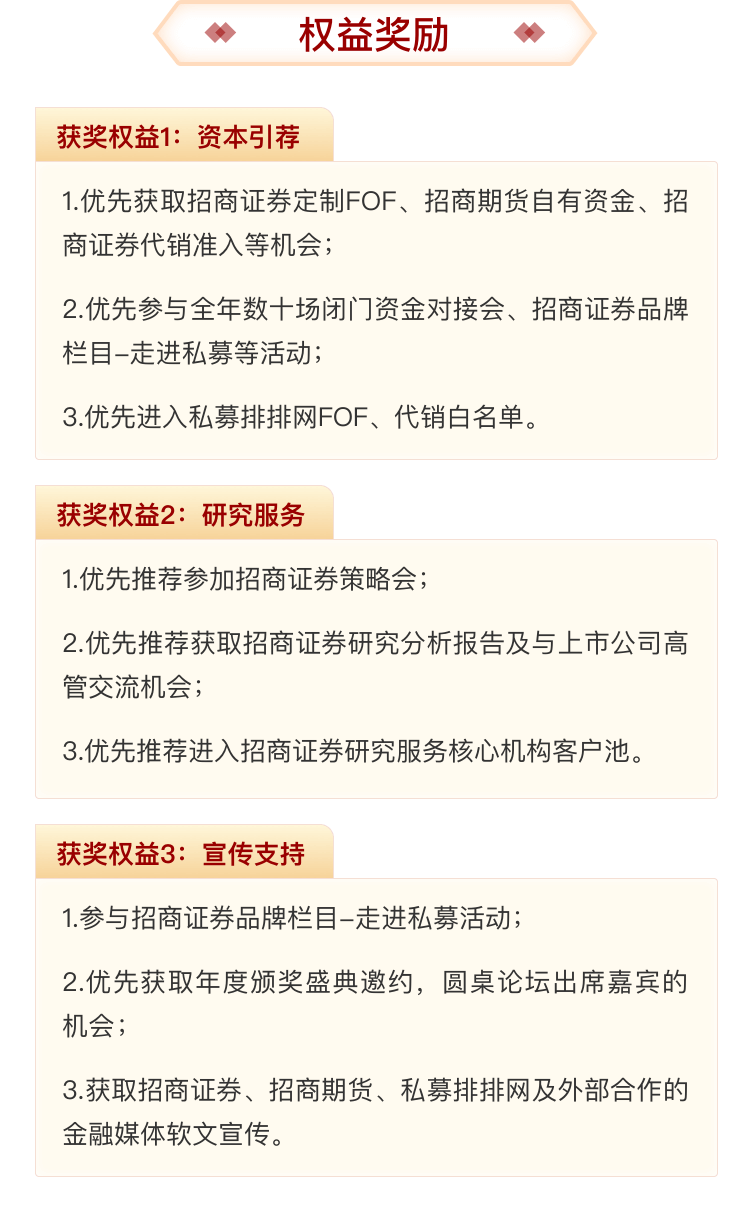
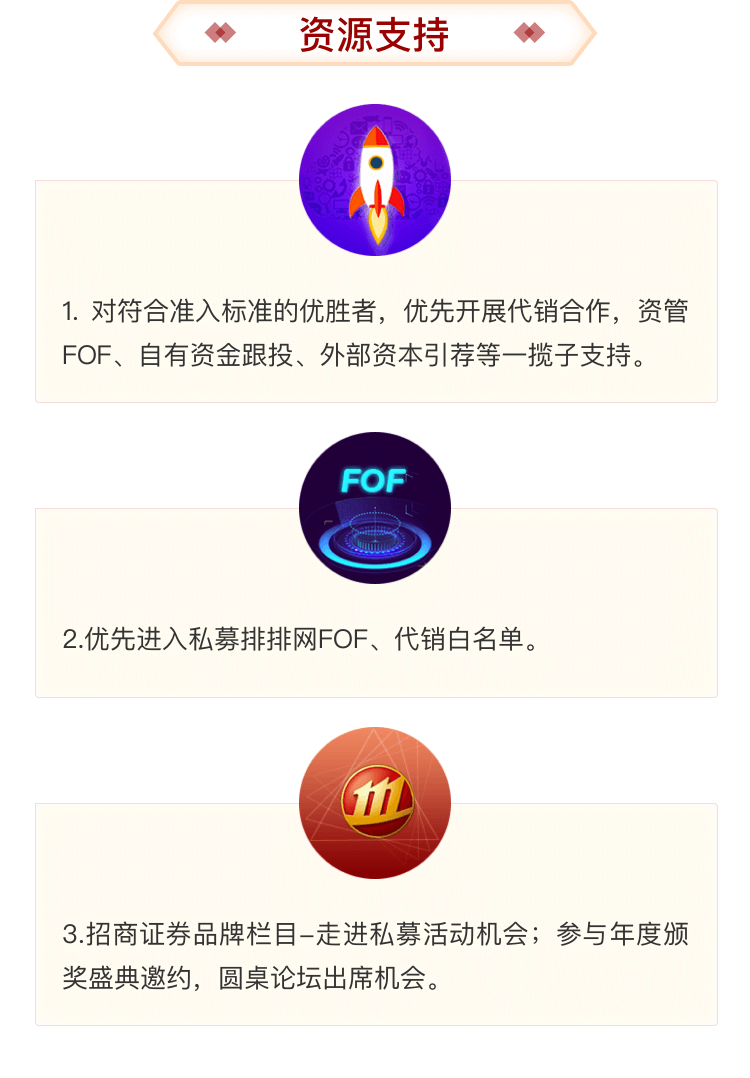
全站优化

diff --git a/pages/mobile/assign.vue b/pages/mobile/assign.vue
@@ -3,7 +3,7 @@
     <Header label="获奖名单" />
     <div style="height: .45rem; background: #f1f1f1" />
     <div class="mobile-assign">
-      <common-flex justify="center" class="header"><CommonTitle title="获奖名单"/></common-flex>
+      <common-flex justify="center" class="common-header"><CommonTitle title="获奖名单"/></common-flex>
       <template v-for="(val, key) in option_definition">
         <common-flex class="fake-input-box" align="center">
           <common-flex class="label" align="flex-start">
@@ -383,7 +383,7 @@ export default {
 .mobile-assign {
   position: relative;
   height: 100%;
-  .header {
+  .common-header {
     margin: -.2rem 0 .6rem 0;
   }
   .empty-box {

diff --git a/pages/mobile.vue b/pages/mobile.vue
@@ -1,6 +1,7 @@
 <template>
   <div class="pages-mobile">
     <nuxt-child></nuxt-child>
+    <div class="disclaimer-text" v-if="$route.query.match_code === 'zszq'">- 请详细阅读大赛相关免责声明 -</div>
     <div class="footer"><Footer :showCall.sync="showCall" /></div>
     <Call :showCall.sync="showCall"/>
     <Disclaimer :show.sync="show" />
@@ -117,6 +118,13 @@ export default {
 .pages-mobile {
   padding-bottom: 1rem;
   background-color: #F1F1F1;
+  .disclaimer-text {
+    height: 1rem;
+    font-size: .24rem;
+    color: #656565;
+    text-align: center;
+    line-height: .8rem;
+  }
   .footer {
     position: fixed;
     bottom: 0;

diff --git a/pages/mobile/rank.vue b/pages/mobile/rank.vue
@@ -3,7 +3,7 @@
     <Header label="大赛排名" />
     <div style="height: .45rem; background: #f1f1f1" />
     <div class="rank">
-      <div class="header"><CommonTitle title="大赛排名"/></div>
+      <div class="common-header"><CommonTitle title="大赛排名"/></div>
       <template v-for="(val, key) in option_definition">
         <common-flex class="fake-input-box" align="center">
           <common-flex class="label" align="flex-start">
@@ -377,7 +377,7 @@ export default {
   position: relative;
   padding-top: 1rem;
   height: 100%;
-  .header {
+  .common-header {
     position: absolute;
     left: 50%;
     top: -.15rem;

diff --git a/pages/index/rank.vue b/pages/index/rank.vue
@@ -83,6 +83,7 @@
         v-if="dataList.length"
         background
         layout="prev, pager, next"
+        :current-page.sync="pageParam.page"
         @current-change="changePage"
         :total="maxPage">
       </el-pagination>
@@ -365,7 +366,7 @@ $borderColor: #DDDDDD;
       .th, .tr {
         height: 60px;
         @include nFont(20 500 #333 60);
-        background-color: #F4F4F4;
+        background-color: #e8e8e8;
         div  {
           padding-right: 20px;
           flex: .5;

diff --git a/components/select/index.vue b/components/select/index.vue
@@ -196,12 +196,12 @@ export default {
       &-title {
         padding: 0 .3rem;
         height: .8rem;
-        font-size: .3rem;
+        font-size: .28rem;
         background: linear-gradient(90deg, #FFBD61, #FFF8A7, #FFBD61);
         box-shadow: 0 .03rem .04rem 0 rgba(255, 255, 255, 0.5);
         border-radius: .2rem .2rem 0 0;
         .txt {
-          max-width: 4.5rem;
+          max-width: 5.5rem;
         }
         img {
           width: .27rem;

diff --git a/components/pop-up.vue b/components/pop-up.vue
@@ -70,7 +70,7 @@ export default {
       }
     }
     .content {
-      padding: .8rem .3rem .3rem;
+      padding: .4rem .3rem .3rem;
       max-height: calc(100% - 1rem);
       overflow-y: auto;
       .pop-up-slot {
